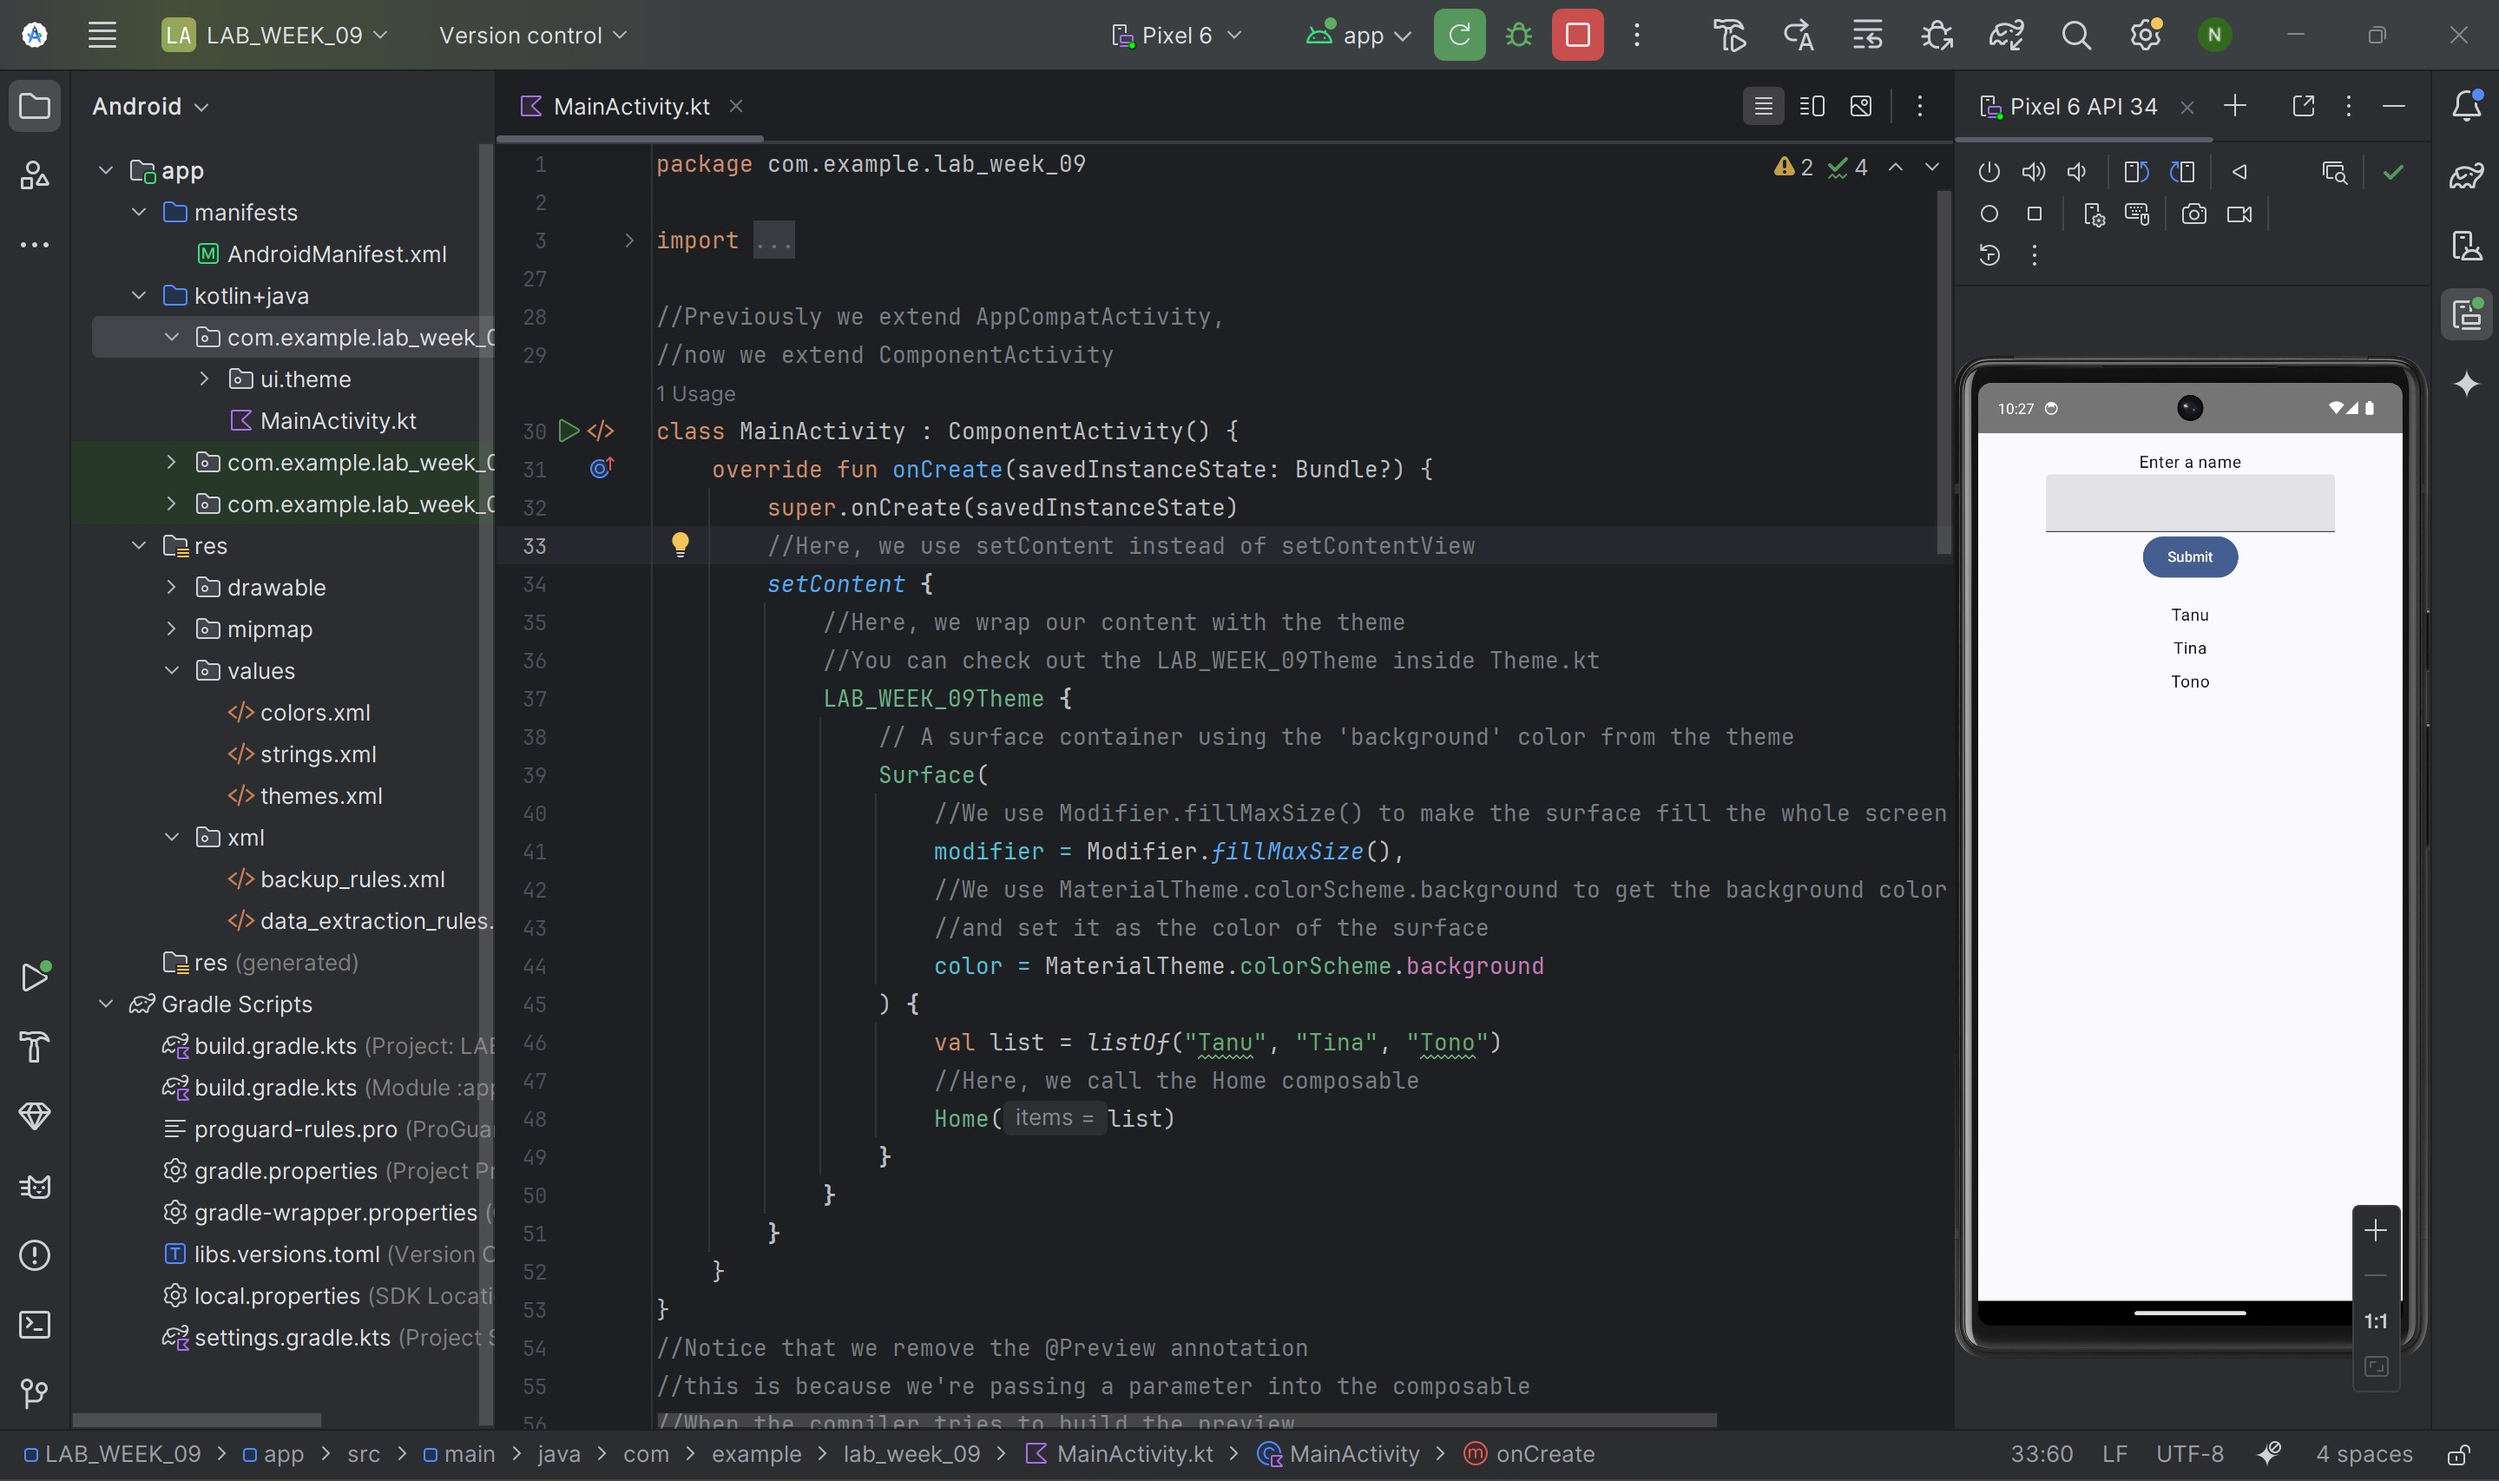
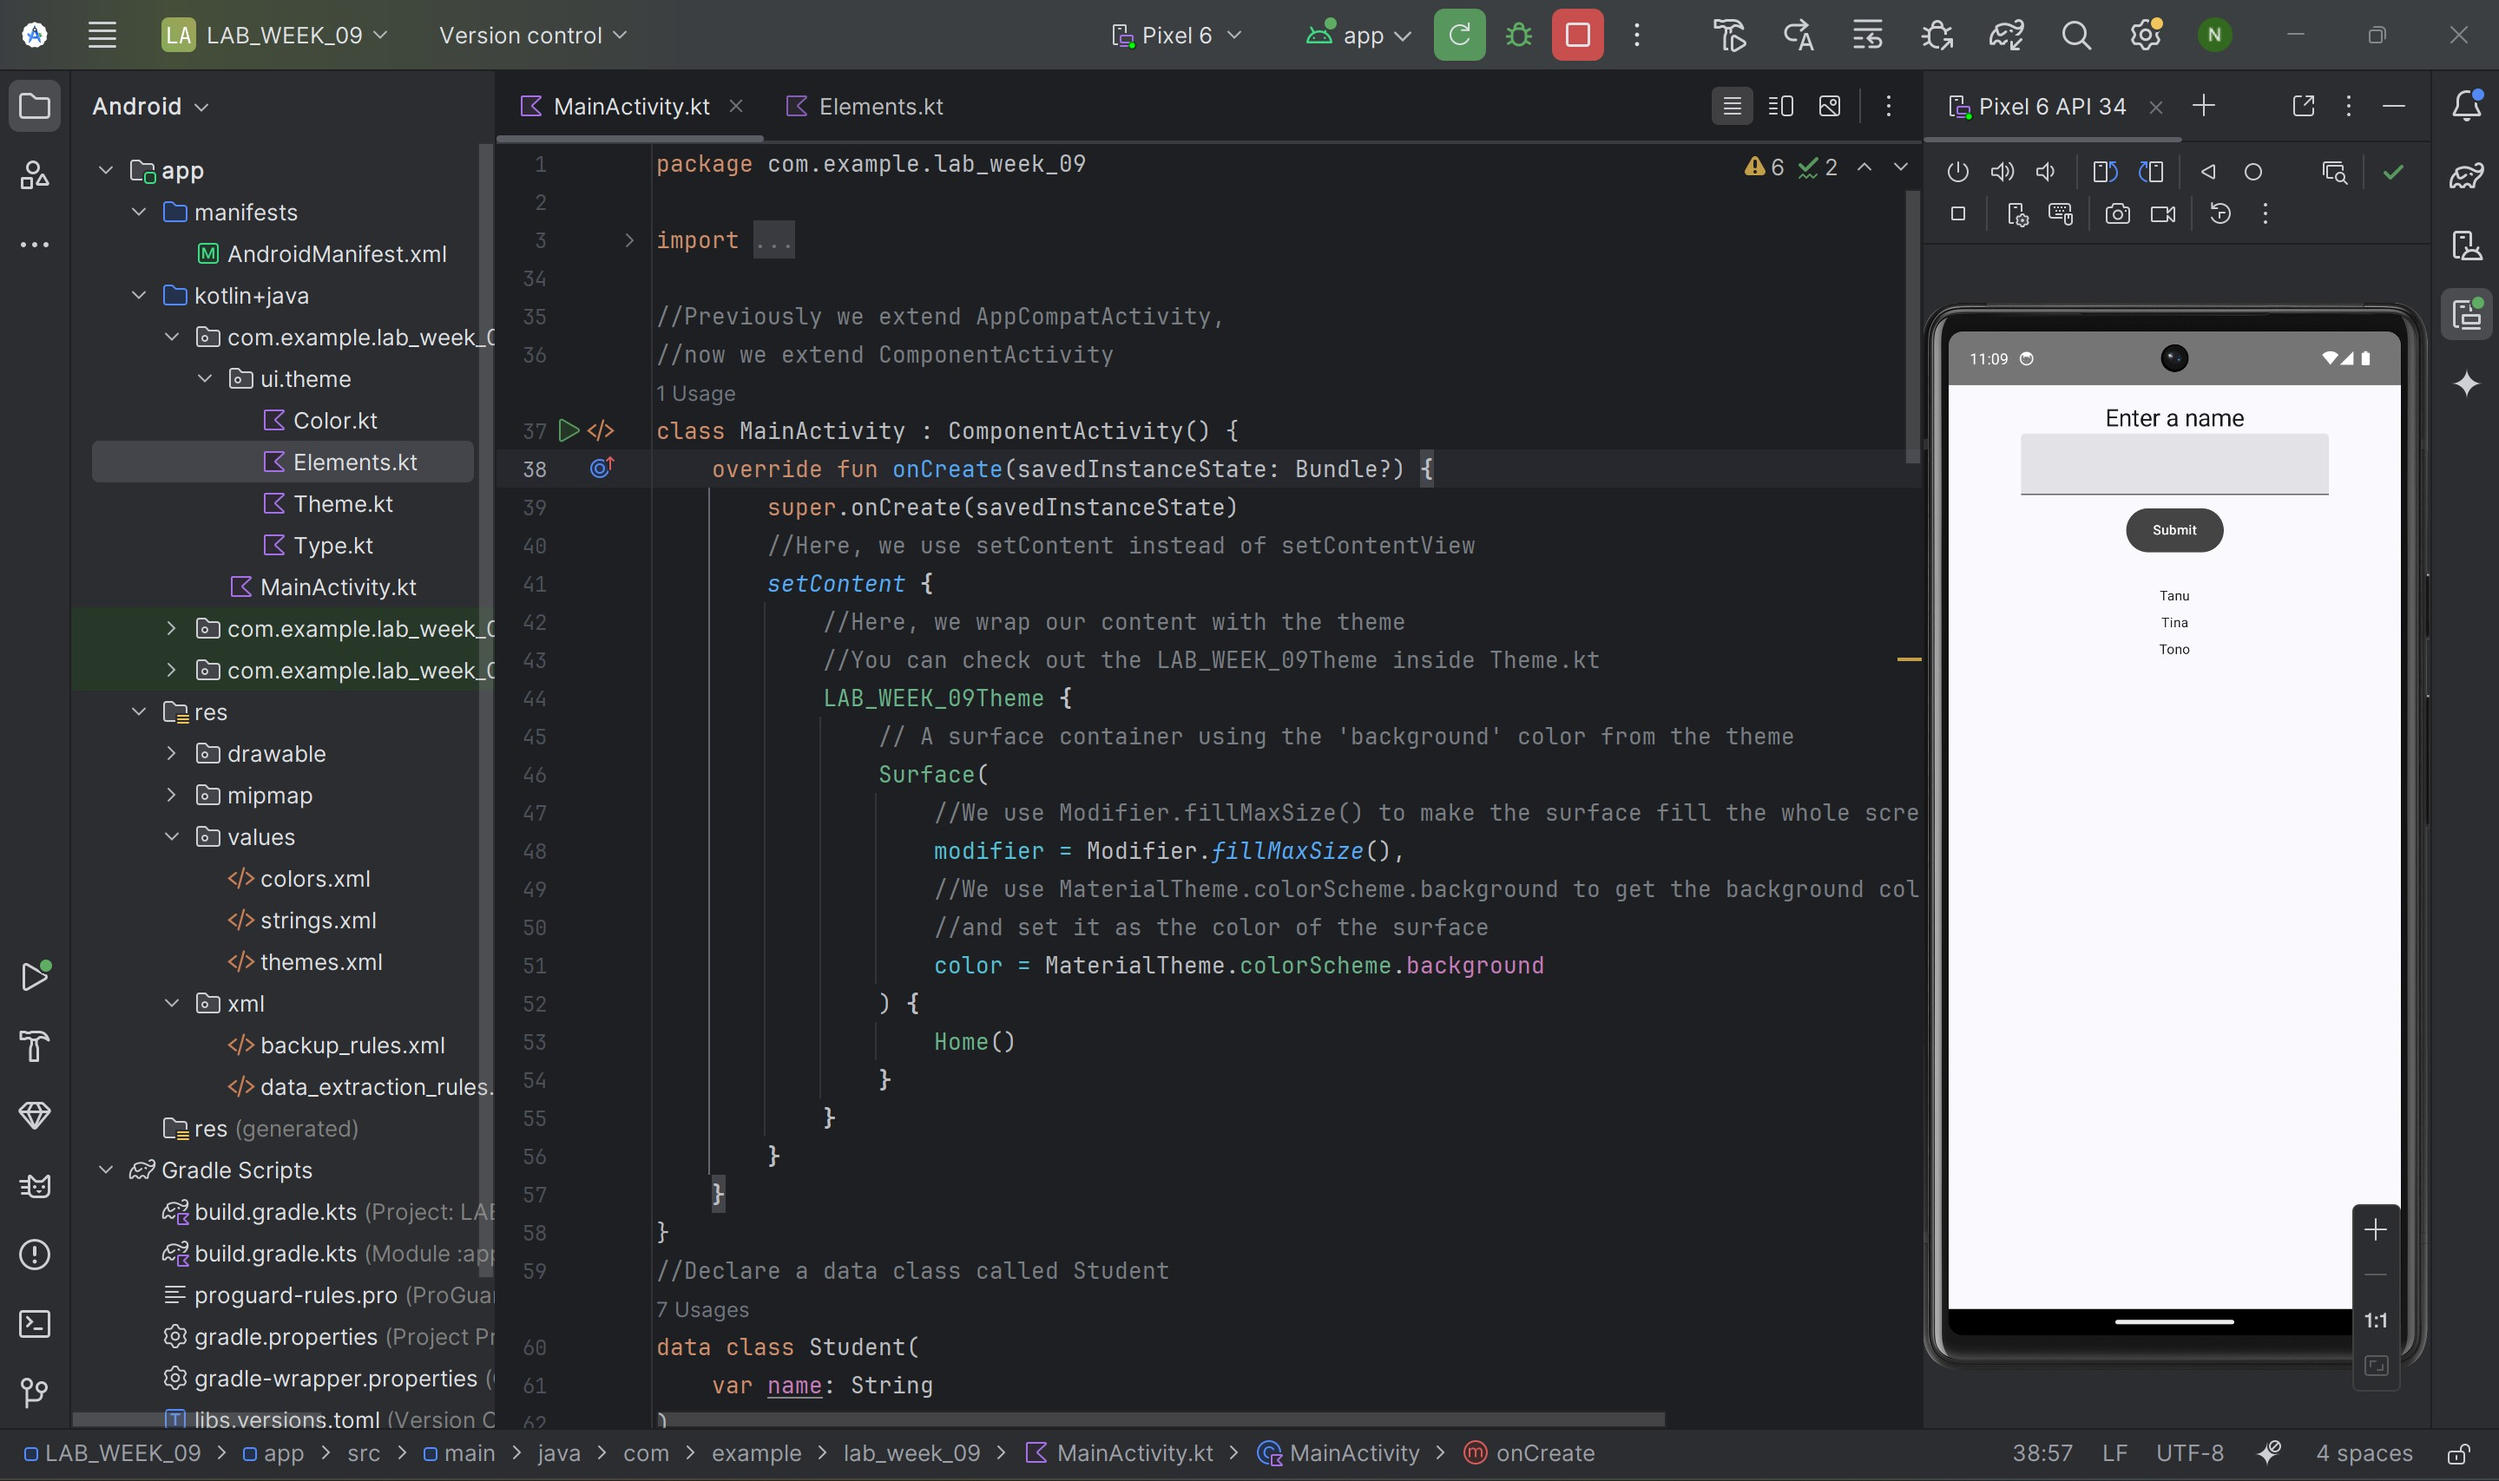
Commit No. 3 – UI Element and Theme

diff --git a/app/src/main/java/com/example/lab_week_09/MainActivity.kt b/app/src/main/java/com/example/lab_week_09/MainActivity.kt
@@ -28,6 +28,9 @@ import androidx.compose.ui.text.input.KeyboardType
 import androidx.compose.ui.tooling.preview.Preview
 import androidx.compose.ui.unit.dp
 import com.example.lab_week_09.ui.theme.LAB_WEEK_09Theme
+import com.example.lab_week_09.ui.theme.OnBackgroundItemText
+import com.example.lab_week_09.ui.theme.OnBackgroundTitleText
+import com.example.lab_week_09.ui.theme.PrimaryTextButton
 
 //Previously we extend AppCompatActivity,
 //now we extend ComponentActivity
@@ -123,9 +126,11 @@ fun HomeContent(
                 //You can also use verticalArrangement = Arrangement.Center to align the Column vertically
                 horizontalAlignment = Alignment.CenterHorizontally
             ) {
-                Text(text = stringResource(
-                id = R.string.enter_item)
+                //Here, we call the OnBackgroundTitleText UI Element
+                OnBackgroundTitleText(text = stringResource(
+                    id = R.string.enter_item)
                 )
+
                 //Here, we use TextField to display a text input field
                 TextField(
                     //Set the value of the input field
@@ -142,19 +147,11 @@ fun HomeContent(
                     onInputValueChange(it)
                 }
             )
-            //Here, we use Button to display a button
-            //the onClick parameter is used to set what happens when the button is clicked
-            Button(onClick = {
-                //Here, we call the onButtonClick lambda function
-                //This is so that we can add the inputField value to the
-                listData
-                //and reset the value of the inputField
+            //Here, we call the PrimaryTextButton UI Element
+            PrimaryTextButton(text = stringResource(
+                id = R.string.button_click)
+            ) {
                 onButtonClick()
-            }) {
-                //Set the text of the button
-                Text(text = stringResource(
-                    id = R.string.button_click)
-                )
             }
         }
     }
@@ -166,7 +163,8 @@ fun HomeContent(
             modifier = Modifier.padding(vertical = 4.dp).fillMaxSize(),
             horizontalAlignment = Alignment.CenterHorizontally
             ) {
-            Text(text = item.name)
+            //Here, we call the OnBackgroundItemText UI Element
+            OnBackgroundItemText(text = item.name)
             }
         }
     }

diff --git a/app/src/main/java/com/example/lab_week_09/ui/theme/Elements.kt b/app/src/main/java/com/example/lab_week_09/ui/theme/Elements.kt
@@ -1,0 +1,60 @@
+package com.example.lab_week_09.ui.theme
+
+import androidx.compose.foundation.layout.padding
+import androidx.compose.material3.Button
+import androidx.compose.material3.ButtonDefaults
+import androidx.compose.material3.MaterialTheme
+import androidx.compose.material3.Text
+import androidx.compose.runtime.Composable
+import androidx.compose.ui.Modifier
+import androidx.compose.ui.graphics.Color
+import androidx.compose.ui.unit.dp
+
+//UI Element for displaying a title
+@Composable
+fun OnBackgroundTitleText(text: String) {
+    TitleText(text = text, color =
+        MaterialTheme.colorScheme.onBackground)
+}
+//Here, we use the titleLarge style from the typography
+@Composable
+fun TitleText(text: String, color: Color) {
+    Text(text = text, style =
+        MaterialTheme.typography.titleLarge, color = color)
+}
+//UI Element for displaying an item list
+@Composable
+fun OnBackgroundItemText(text: String) {
+    ItemText(text = text, color =
+        MaterialTheme.colorScheme.onBackground)
+}
+//Here, we use the bodySmall style from the typography
+@Composable
+fun ItemText(text: String, color: Color) {
+    Text(text = text, style =
+        MaterialTheme.typography.bodySmall, color = color)
+}
+//UI Element for displaying a button
+@Composable
+fun PrimaryTextButton(text: String, onClick: () -> Unit) {
+    TextButton(text = text,
+        textColor = Color.White,
+        onClick = onClick
+    )
+}
+//Here, we use the labelMedium style from the typography
+@Composable
+fun TextButton(text: String, textColor: Color, onClick: () -> Unit) {
+    Button(
+        onClick = onClick,
+        modifier = Modifier.padding(8.dp),
+        colors = ButtonDefaults
+            .buttonColors(
+                containerColor = Color.DarkGray,
+                contentColor = textColor
+            )
+    ) {
+        Text(text = text, style =
+            MaterialTheme.typography.labelMedium)
+    }
+}
